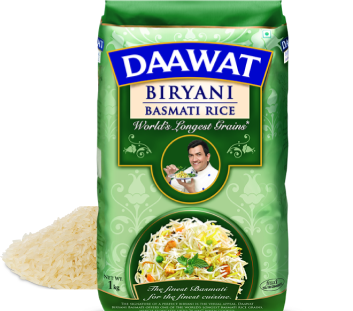
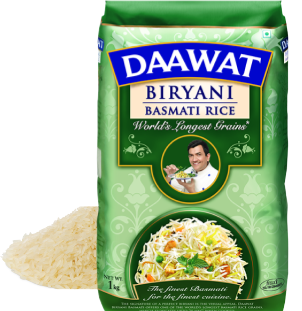
solve

diff --git a/index.html b/index.html
@@ -292,7 +292,7 @@
               <button class="text-white text-2xl   bg-[#63B76D] px-4 py-2 mt-6 rounded-lg">World’s No.1 Rice</button>
               <h1 class="text-2xl text-white mt-2">UP to <span class="font-bold ">20% OFF</span></h1>
             </div>
-            <img src="assest/dawat-mock-up.png" class="" />
+            <img class="max-w-52 lg:w-56" src="assest/dawat-mock-up.png" class="" />
           </div>
         </div>
         <!-- right img -->
